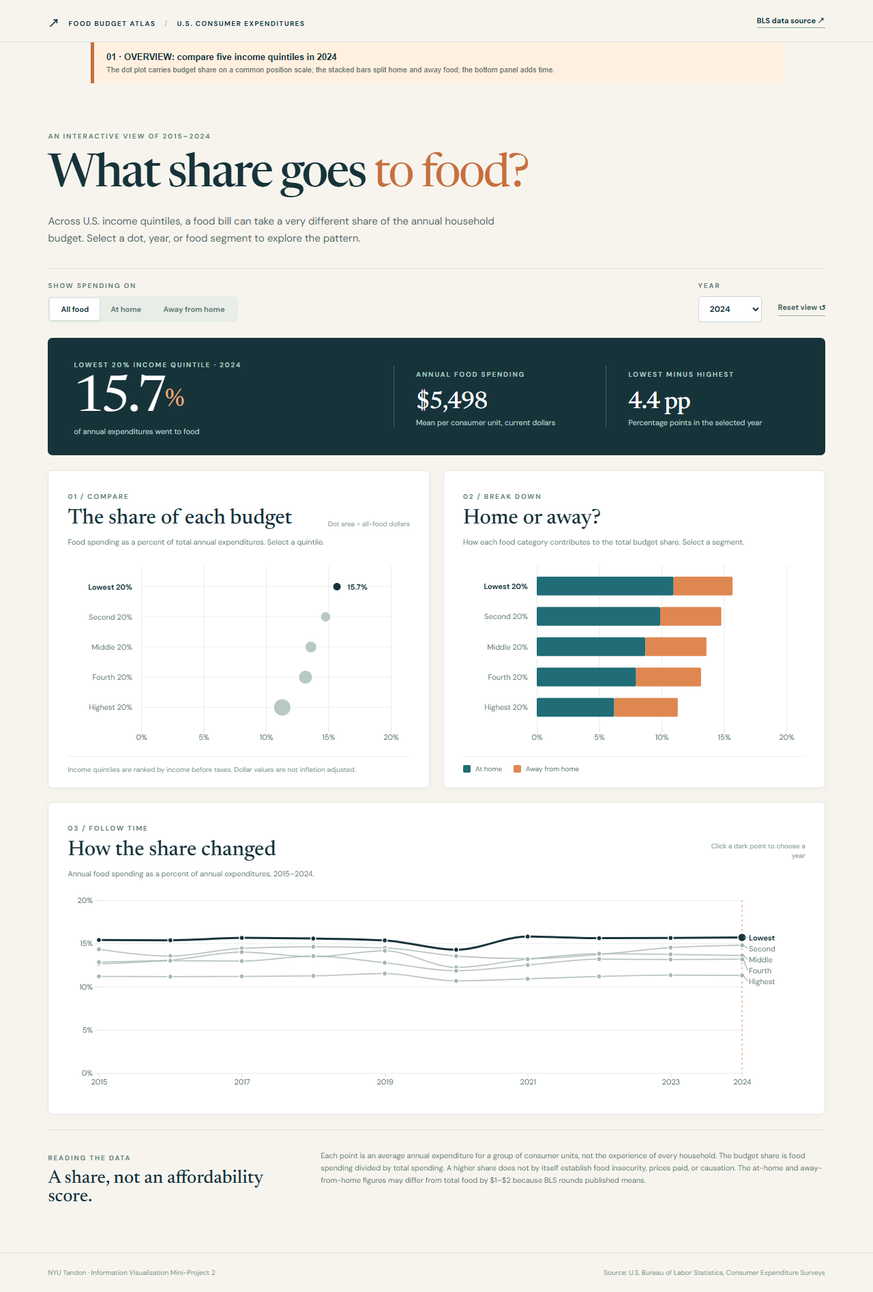
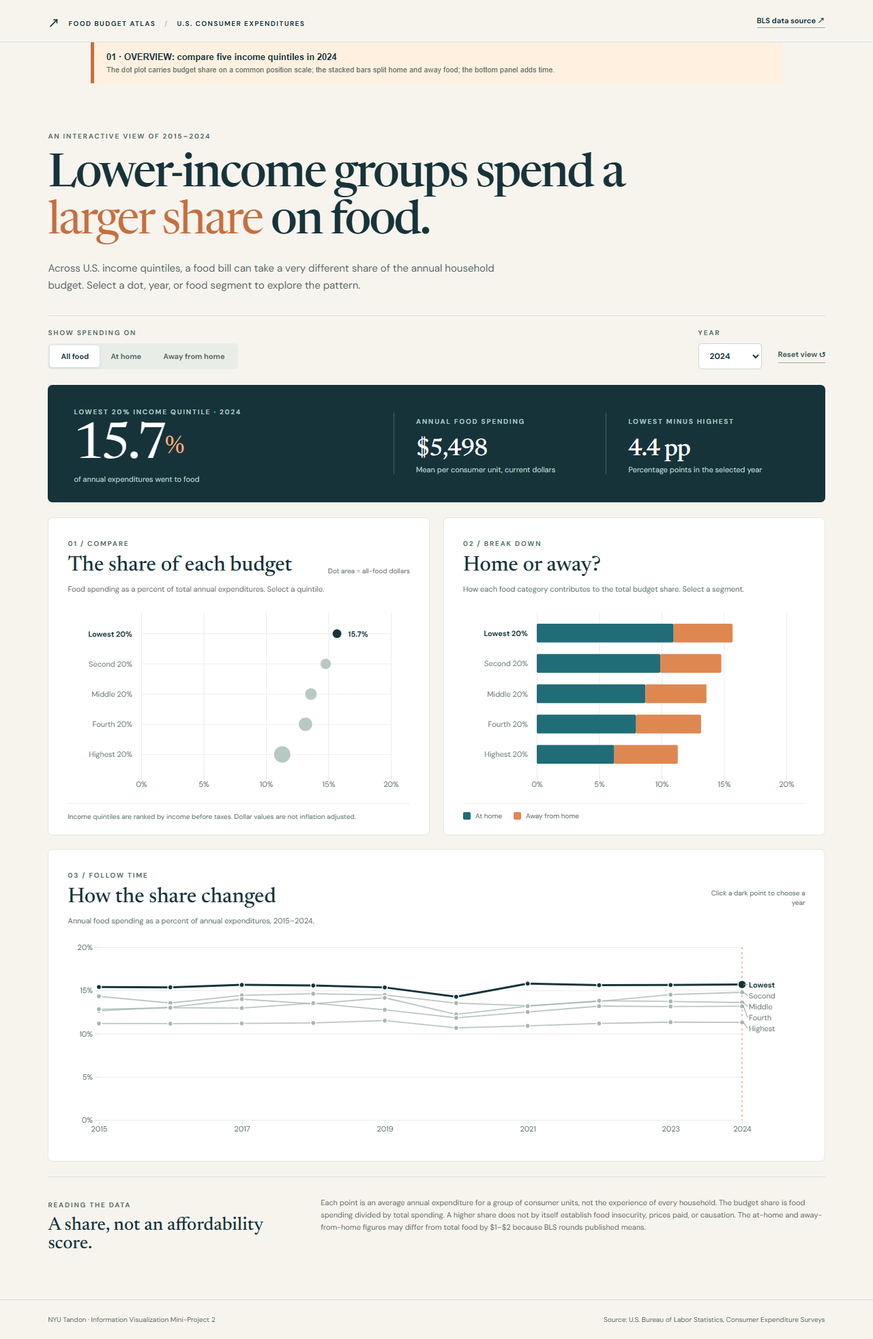
Audit dashboard against lecture and assignment rubric

diff --git a/src/styles.css b/src/styles.css
@@ -12,7 +12,7 @@ a { color: inherit; }
 .source-link { font-size: 11px; font-weight: 700; text-decoration: none; border-bottom: 1px solid #93a7a1; padding-bottom: 3px; white-space: nowrap; }
 main { padding: 0 5.5% 68px; }
 .hero { padding: 57px 0 31px; max-width: 860px; }
-.eyebrow, .view-number, .control-label, .summary-label { font-size: 10px; letter-spacing: .18em; font-weight: 700; color: #647f78; }
+.eyebrow, .view-number, .control-label, .summary-label { font-size: 10px; letter-spacing: .18em; font-weight: 700; color: #526d66; }
 h1, h2 { font-family: Newsreader, Georgia, serif; font-weight: 500; margin: 0; }
 h1 { font-size: clamp(46px, 5.3vw, 80px); line-height: 1.02; letter-spacing: -.04em; margin-top: 17px; }
 h1 em { font-weight: 400; color: #c66f3e; }
@@ -20,7 +20,7 @@ h1 em { font-weight: 400; color: #c66f3e; }
 .controls { display: flex; align-items: end; gap: 24px; padding: 18px 0 23px; border-top: 1px solid #d8dfda; }
 .control-group { display: flex; flex-direction: column; gap: 9px; }
 .segmented { display: flex; padding: 3px; background: #e9ede8; border-radius: 6px; }
-.segmented button { background: transparent; border: 0; border-radius: 4px; color: #637a75; font-size: 11px; font-weight: 700; padding: 9px 16px; }
+.segmented button { background: transparent; border: 0; border-radius: 4px; color: #526d66; font-size: 11px; font-weight: 700; padding: 9px 16px; }
 .segmented button.active { background: white; color: #17333a; box-shadow: 0 1px 4px #1b3b3526; }
 .segmented button:hover:not(.active) { color: #17333a; }
 .year-control { margin-left: auto; }
@@ -35,15 +35,15 @@ button:focus-visible, select:focus-visible, svg [tabindex]:focus-visible { outli
 .summary-aside { border-left: 1px solid #426168; padding-left: 32px; min-height: 80px; }
 .summary-aside strong { display: block; font-family: Newsreader, Georgia, serif; font-size: 35px; font-weight: 500; margin-top: 15px; letter-spacing: -.03em; }
 .dashboard-grid { display: grid; grid-template-columns: 1fr 1fr; gap: 20px; }
-.card { background: #fff; border: 1px solid #e2e7e1; border-radius: 7px; padding: 25px 28px 19px; min-width: 0; box-shadow: 0 2px 12px #193a2e08; }
+.card { background: #fff; border: 1px solid #e2e7e1; border-radius: 7px; padding: 25px 28px 19px; min-width: 0; }
 .card-header { display: flex; justify-content: space-between; gap: 12px; align-items: end; }
 .card h2 { font-size: 31px; margin-top: 8px; line-height: 1; }
-.card-description { font-size: 11px; line-height: 1.5; color: #687d76; margin: 11px 0 13px; }
-.chart-note { color: #8da19b; font-size: 10px; line-height: 1.4; text-align: right; max-width: 160px; }
+.card-description { font-size: 11px; line-height: 1.5; color: #596e67; margin: 11px 0 13px; }
+.chart-note { color: #536a64; font-size: 10px; line-height: 1.4; text-align: right; max-width: 160px; }
 .chart { width: 100%; min-height: 288px; }
 .card-trend { grid-column: 1 / -1; }
 .card-trend .chart { min-height: 306px; }
-.chart-footnote { border-top: 1px solid #edf0ec; padding-top: 11px; font-size: 10px; line-height: 1.5; color: #869890; }
+.chart-footnote { border-top: 1px solid #edf0ec; padding-top: 11px; font-size: 10px; line-height: 1.5; color: #596e67; }
 .row-label, .end-label { fill: #647a74; font-family: 'DM Sans', Arial, sans-serif; font-size: 11px; }
 .row-label.selected, .end-label.selected { fill: #17333a; font-weight: 700; }
 .row-guide { stroke: #edf0ec; stroke-width: 1; }
@@ -53,14 +53,14 @@ button:focus-visible, select:focus-visible, svg [tabindex]:focus-visible { outli
 .value-label { font-size: 11px; fill: #17333a; font-weight: 700; }
 .trend-line { fill: none; pointer-events: none; transition: stroke .18s, stroke-width .18s, opacity .18s; }
 .year-marker { stroke: #df8751; stroke-width: 1; stroke-dasharray: 3 4; }
-.legend { display: flex; gap: 17px; border-top: 1px solid #edf0ec; padding-top: 11px; font-size: 10px; color: #6a817b; }
+.legend { display: flex; gap: 17px; border-top: 1px solid #edf0ec; padding-top: 11px; font-size: 10px; color: #536a64; }
 .legend span { display: flex; align-items: center; gap: 7px; }
 .swatch { width: 11px; height: 11px; border-radius: 2px; display: inline-block; }
 .swatch.home { background: #216d77; }.swatch.away { background: #df8751; }
 .method { margin-top: 22px; border-top: 1px solid #d8dfda; padding: 28px 0 0; display: grid; grid-template-columns: 1fr 2fr; gap: 30px; }
 .method h2 { font-size: 27px; margin-top: 8px; }
-.method p { color: #657a73; line-height: 1.65; font-size: 11px; max-width: 760px; margin: 0; }
-footer { border-top: 1px solid #d8dfda; padding: 22px 5.5%; display: flex; justify-content: space-between; gap: 14px; font-size: 10px; color: #83958e; }
+.method p { color: #596e67; line-height: 1.65; font-size: 11px; max-width: 760px; margin: 0; }
+footer { border-top: 1px solid #d8dfda; padding: 22px 5.5%; display: flex; justify-content: space-between; gap: 14px; font-size: 10px; color: #596e67; }
 .tooltip { position: fixed; z-index: 20; background: #17333a; color: #fff; border-radius: 5px; padding: 12px 15px; display: none; box-shadow: 0 8px 24px #10282040; pointer-events: none; font-size: 11px; line-height: 1.6; min-width: 200px; }
 .tooltip.visible { display: flex; flex-direction: column; }
 .tooltip strong { color: #f0c29d; margin-bottom: 3px; }

diff --git a/index.html b/index.html
@@ -4,7 +4,7 @@
     <meta charset="UTF-8" />
     <meta name="viewport" content="width=device-width, initial-scale=1.0" />
     <meta name="theme-color" content="#f7f4ee" />
-    <title>What Share Goes to Food? | U.S. Household Food Budgets</title>
+    <title>Food Takes a Larger Share of Lower-Income Budgets | U.S. Food Budget Atlas</title>
     <link rel="preconnect" href="https://fonts.googleapis.com" />
     <link rel="preconnect" href="https://fonts.gstatic.com" crossorigin />
     <link href="https://fonts.googleapis.com/css2?family=DM+Sans:wght@400;500;600;700&family=Newsreader:opsz,wght@6..72,400;6..72,500;6..72,600&display=swap" rel="stylesheet" />
@@ -19,7 +19,7 @@
       <main>
         <section class="hero">
           <div class="eyebrow">AN INTERACTIVE VIEW OF 2015–2024</div>
-          <h1>What share goes <em>to food?</em></h1>
+          <h1>Lower-income groups spend a <em>larger share</em> on food.</h1>
           <p class="lede">Across U.S. income quintiles, a food bill can take a very different share of the annual household budget. Select a dot, year, or food segment to explore the pattern.</p>
         </section>
 
@@ -61,21 +61,21 @@
           <section class="card card-main" aria-labelledby="quintile-title">
             <div class="card-header"><div><span class="view-number">01 / COMPARE</span><h2 id="quintile-title">The share of each budget</h2></div><span class="chart-note">Dot area = all-food dollars</span></div>
             <p class="card-description">Food spending as a percent of total annual expenditures. Select a quintile.</p>
-            <div id="quintile-chart" class="chart" role="img" aria-label="Dot plot of the food budget share for five income quintiles"></div>
+            <div id="quintile-chart" class="chart" role="group" aria-label="Dot plot of the food budget share for five income quintiles"></div>
             <div class="chart-footnote">Income quintiles are ranked by income before taxes. Dollar values are not inflation adjusted.</div>
           </section>
 
           <section class="card card-composition" aria-labelledby="composition-title">
             <div class="card-header"><div><span class="view-number">02 / BREAK DOWN</span><h2 id="composition-title">Home or away?</h2></div></div>
             <p class="card-description">How each food category contributes to the total budget share. Select a segment.</p>
-            <div id="composition-chart" class="chart" role="img" aria-label="Stacked bar chart showing at-home and away-from-home food spending by income quintile"></div>
+            <div id="composition-chart" class="chart" role="group" aria-label="Stacked bar chart showing at-home and away-from-home food spending by income quintile"></div>
             <div class="legend"><span><i class="swatch home"></i> At home</span><span><i class="swatch away"></i> Away from home</span></div>
           </section>
 
           <section class="card card-trend" aria-labelledby="trend-title">
             <div class="card-header"><div><span class="view-number">03 / FOLLOW TIME</span><h2 id="trend-title">How the share changed</h2></div><span class="chart-note">Click a dark point to choose a year</span></div>
             <p class="card-description">Annual food spending as a percent of annual expenditures, 2015–2024.</p>
-            <div id="trend-chart" class="chart" role="img" aria-label="Line chart showing food budget share from 2015 to 2024 for five income quintiles"></div>
+            <div id="trend-chart" class="chart" role="group" aria-label="Line chart showing food budget share from 2015 to 2024 for five income quintiles"></div>
           </section>
         </div>
 

diff --git a/src/main.js b/src/main.js
@@ -81,7 +81,8 @@ function drawQuintiles() {
   const current = rows.filter(r => r.year === state.year);
   const x = d3.scaleLinear().domain([0, 20]).range([0, plotWidth]);
   const y = d3.scaleBand().domain(quintiles).range([0, plotHeight]).padding(.38);
-  const size = d3.scaleSqrt().domain(d3.extent(rows, r => r.food_total_usd)).range([5, 13]);
+  // A zero-based square-root radius keeps circle area proportional to dollars.
+  const size = d3.scaleSqrt().domain([0, d3.max(rows, r => r.food_total_usd)]).range([0, 13]);
 
   plot.append('g').attr('class', 'grid').call(d3.axisBottom(x).tickValues([0, 5, 10, 15, 20]).tickSize(plotHeight).tickFormat(''));
   plot.select('.grid').call(axisStyle).attr('opacity', .6);
@@ -152,7 +153,8 @@ function drawTrend() {
   plot.append('g').call(d3.axisLeft(y).tickValues([0, 5, 10, 15, 20]).tickFormat(d => `${d}%`)).call(axisStyle);
   plot.append('line').attr('class', 'year-marker').attr('x1', x(state.year)).attr('x2', x(state.year)).attr('y1', 0).attr('y2', plotHeight);
 
-  const line = d3.line().x(r => x(r.year)).y(r => y(share(r))).curve(d3.curveMonotoneX);
+  // Straight segments connect observed annual means without inventing a smooth trajectory.
+  const line = d3.line().x(r => x(r.year)).y(r => y(share(r)));
   const groups = quintiles.map(quintile => ({ quintile, data: rows.filter(r => r.income_quintile === quintile).sort((a,b) => a.year-b.year) }));
   plot.selectAll('.trend-line').data(groups).join('path').attr('class', 'trend-line')
     .attr('d', g => line(g.data)).attr('stroke', g => g.quintile === state.quintile ? colors.ink : '#a8b7b5')

diff --git a/scripts/build_reflection_pdf.py b/scripts/build_reflection_pdf.py
@@ -9,7 +9,7 @@ from reportlab.lib.styles import ParagraphStyle
 from reportlab.lib.utils import simpleSplit
 from reportlab.pdfbase import pdfmetrics
 from reportlab.pdfbase.ttfonts import TTFont
-from reportlab.platypus import SimpleDocTemplate, Paragraph, Spacer
+from reportlab.platypus import SimpleDocTemplate, Paragraph, Spacer, Table, TableStyle
 
 ROOT = Path(__file__).resolve().parents[1]
 OUTPUT = ROOT / "output" / "pdf" / "reflection.pdf"
@@ -24,7 +24,8 @@ muted = colors.HexColor("#5f7772")
 accent = colors.HexColor("#c66f3e")
 
 source = (ROOT / "docs" / "reflection.md").read_text(encoding="utf-8")
-paragraphs = [part.strip() for part in source.split("\n\n") if part.strip()]
+prose, table_markdown = source.split("## Channel justification table", 1)
+paragraphs = [part.strip() for part in prose.split("\n\n") if part.strip()]
 title = paragraphs[0].removeprefix("# ")
 body = [part for part in paragraphs[2:]]  # skip the draft-status line
 
@@ -35,14 +36,36 @@ def markup(text: str) -> str:
 
 styles = {
     "title": ParagraphStyle("title", fontName="Georgia", fontSize=20, leading=24, textColor=navy, spaceAfter=16),
-    "body": ParagraphStyle("body", fontName="Georgia", fontSize=9.6, leading=14.6, textColor=navy, spaceAfter=12, alignment=TA_LEFT),
-    "note": ParagraphStyle("note", fontName="Georgia", fontSize=9, leading=13.5, textColor=muted, spaceBefore=5),
+    "body": ParagraphStyle("body", fontName="Georgia", fontSize=9.2, leading=13.5, textColor=navy, spaceAfter=10, alignment=TA_LEFT),
+    "note": ParagraphStyle("note", fontName="Georgia", fontSize=8.6, leading=12.5, textColor=muted, spaceBefore=3, spaceAfter=10),
+    "table_heading": ParagraphStyle("table_heading", fontName="Georgia-Bold", fontSize=7.3, leading=9, textColor=colors.white),
+    "table_cell": ParagraphStyle("table_cell", fontName="Georgia", fontSize=7.1, leading=9, textColor=navy),
+    "section": ParagraphStyle("section", fontName="Georgia-Bold", fontSize=9.2, leading=11, textColor=navy, spaceBefore=3, spaceAfter=6),
 }
 
 story = [Paragraph(title, styles["title"])]
 for i, paragraph in enumerate(body):
     style = styles["note"] if paragraph.startswith("**Interpretive limit:") else styles["body"]
     story.append(Paragraph(markup(paragraph), style))
+
+story.append(Paragraph("Channel justification table - current implementation", styles["section"]))
+lines = [line.strip() for line in table_markdown.splitlines() if line.strip().startswith("|")]
+cells = [[cell.strip() for cell in line.strip("|").split("|")] for line in lines]
+cells = [cells[0]] + cells[2:]  # skip Markdown separator row
+data = [[Paragraph(markup(cell), styles["table_heading"] if row == 0 else styles["table_cell"])
+         for cell in values] for row, values in enumerate(cells)]
+table = Table(data, colWidths=[105, 77, 144, 192], repeatRows=1, hAlign="LEFT")
+table.setStyle(TableStyle([
+    ("BACKGROUND", (0, 0), (-1, 0), navy),
+    ("ROWBACKGROUNDS", (0, 1), (-1, -1), [colors.white, colors.HexColor("#f7f4ee")]),
+    ("VALIGN", (0, 0), (-1, -1), "TOP"),
+    ("LEFTPADDING", (0, 0), (-1, -1), 5),
+    ("RIGHTPADDING", (0, 0), (-1, -1), 5),
+    ("TOPPADDING", (0, 0), (-1, -1), 4),
+    ("BOTTOMPADDING", (0, 0), (-1, -1), 4),
+    ("LINEBELOW", (0, 0), (-1, 0), 0.4, navy),
+]))
+story.append(table)
 
 def decorate(canvas, doc):
     canvas.saveState()

diff --git a/scripts/fetch_data.py b/scripts/fetch_data.py
@@ -85,7 +85,25 @@ def main() -> None:
         writer = csv.DictWriter(output, fieldnames=rows[0].keys())
         writer.writeheader()
         writer.writerows(rows)
-    print(f"Wrote {len(rows)} complete rows from {len(requested)} official BLS series")
+
+    # This tidy companion makes the nominal food-category dimension explicit.
+    long_rows = []
+    for row in rows:
+        for category, column in (("At home", "food_at_home_usd"), ("Away from home", "food_away_from_home_usd")):
+            long_rows.append({
+                "year": row["year"],
+                "income_quintile": row["income_quintile"],
+                "quintile_rank": row["quintile_rank"],
+                "food_category": category,
+                "category_expenditure_usd": row[column],
+                "total_expenditures_usd": row["total_expenditures_usd"],
+                "category_share_percent": round(100 * row[column] / row["total_expenditures_usd"], 3),
+            })
+    with (data_dir / "food_spending_long.csv").open("w", newline="", encoding="utf-8") as output:
+        writer = csv.DictWriter(output, fieldnames=long_rows[0].keys())
+        writer.writeheader()
+        writer.writerows(long_rows)
+    print(f"Wrote {len(rows)} wide and {len(long_rows)} long rows from {len(requested)} official BLS series")
     print("2024 food share by quintile:")
     for row in rows:
         if row["year"] == 2024:

diff --git a/docs/reflection.md b/docs/reflection.md
@@ -4,10 +4,20 @@
 
 The central question in Food Budget Atlas is not who spends the most dollars on food; it is what share of annual expenditures food represents in each income quintile. I therefore placed the share on a common horizontal scale in the dot plot and stacked bars, and on a shared vertical scale in the time series. This follows the **Effectiveness Principle** and the **Cleveland and McGill perceptual ranking** discussed in Week 4 (slides 18 and 24): people compare positions more accurately than areas or angles. Circle area conveys the secondary dollar amount, while exact values remain available in the tooltip. The 0–20% scales stay fixed when the food category changes, which makes cross-filtered views comparable but gives small changes less visual resolution.
 
-The **Expressiveness Principle** (Week 4, slide 17) also shaped the encodings. Income quintiles are ordinal, so I keep them in lowest-to-highest order rather than assigning arbitrary categorical hues. Year runs left to right on the line chart. At-home and away-from-home food are nominal categories, so two hues identify them in the stacked bars; color never stands for a numeric scale. The distinction remains legible in grayscale through segment position and direct labels. In the time chart, the selected quintile is darker and thicker than the four context lines. This uses the Week 3 focus-and-context color guidance (slide 47) without demanding a five-color legend.
+The **Expressiveness Principle** (Week 4, slide 17) also shaped the encodings. Income quintiles are ordinal, so I keep them in lowest-to-highest order rather than assigning arbitrary categorical hues. Year runs left to right on the line chart. At-home and away-from-home food are nominal categories, so two hues identify them in the stacked bars; color never stands for a numeric scale. The distinction remains legible in grayscale through segment order, lightness, and a two-item legend. In the time chart, the selected quintile is darker and thicker than the four context lines. This uses the Week 3 focus-and-context color guidance (slide 47) without demanding a five-color legend.
 
 The layout applies **Gestalt proximity, similarity, and enclosure** from Week 4 (slides 39–42). The two views that compare the same five quintiles in one year sit beside one another inside matching cards. The time view spans the row below, because its ten-year axis needs width. Repeated type, spacing, and axes make the cards feel related, while the dark summary makes the active selection clear. I considered three equal columns, but that would squeeze the trend and weaken year comparisons. The chosen hierarchy gives the main budget-share question the first glance. Thin guides and restrained borders reflect Tufte's **data-ink ratio** discussion (Week 4, slide 37): marks and values, rather than decoration, carry the story.
 
 Finally, the three views share a single selection. Clicking a dot selects a quintile; clicking a stacked segment selects a quintile and food category; clicking a dark time-series point selects a year. Every action updates the other views and the summary, so users can move from overview to a focused comparison and details on demand, consistent with the interaction guidance in Week 1 (slide 13) and Week 2. A tradeoff is that only the focused line's points are clickable: the five lines sometimes lie too close together for reliable independent targets. Quintile selection remains available in the other two views. This choice makes the interaction predictable, but real peer testing is needed to see whether users discover it naturally.
 
 **Interpretive limit:** These are BLS group means in current dollars. The chart describes expenditure patterns; it does not show every household's experience or explain why a pattern changed.
+
+## Channel justification table — current implementation
+
+| Data dimension | Data type | Mark and channel | Reason |
+| --- | --- | --- | --- |
+| Food share of expenditures | Quantitative | Dot and bar horizontal position; line vertical position | The primary measure uses the most accurate channel and a common scale. |
+| Income quintile | Ordinal | Ordered dot/bar rows; direct line labels | The rank is preserved without implying unrelated color categories. |
+| Calendar year | Temporal ordinal | Line horizontal position | Left-to-right position conveys chronological order. |
+| Food at home / away | Nominal | Stacked-bar hue and left/right position | Two consistent hues identify categories; position remains readable in grayscale. |
+| Annual all-food dollars | Quantitative | Dot area | A secondary magnitude; zero-based square-root radius makes area proportional to dollars. |

diff --git a/docs/sources.md b/docs/sources.md
@@ -6,13 +6,17 @@
 - Access method: [BLS Public Data API v2](https://www.bls.gov/developers/api_signature_v2.htm), `POST https://api.bls.gov/publicAPI/v2/timeseries/data/`, accessed 2026-10-08.
 - Series naming and demographic codes: BLS [CE LABSTAT data guide](https://www.bls.gov/cex/labstat/ce-labstat-getting-started-guide.htm) and the `cx.series`, `cx.item`, and `cx.characteristics` metadata files in the [BLS time-series directory](https://download.bls.gov/pub/time.series/cx/). The API series are `CXU{ITEM}LB01{QUINTILE}M`, where `ITEM` is `TOTALEXP`, `FOODTOTL`, `FOODHOME`, or `FOODAWAY`, and `QUINTILE` is `02` through `06`. This yields 20 series.
 - Cross-check and terminology: BLS [CE demographic tables](https://www.bls.gov/cex/tables/calendar-year/mean-item-share-average-standard-error.htm), [tables guide](https://www.bls.gov/cex/tables-getting-started-guide.htm), and [glossary](https://www.bls.gov/cex/csxgloss.htm).
-- Raw API response: [`data/bls_api_2015_2024.json`](../data/bls_api_2015_2024.json). Processed extract: [`data/food_spending.csv`](../data/food_spending.csv). Reproduction script: [`scripts/fetch_data.py`](../scripts/fetch_data.py).
+- Raw API response: [`data/bls_api_2015_2024.json`](../data/bls_api_2015_2024.json). Processed wide app extract: [`data/food_spending.csv`](../data/food_spending.csv). Tidy category extract: [`data/food_spending_long.csv`](../data/food_spending_long.csv). Reproduction script: [`scripts/fetch_data.py`](../scripts/fetch_data.py).
 
 ## Transformation and quality checks
 
-There are 10 years (2015–2024) × five quintiles = 50 rows. `scripts/fetch_data.py` checks that all 20 series and all 50 year–quintile combinations are present, every record contains all four measures, total expenditures exceed food spending, and food at home plus food away from home differs from published food total by no more than $2 due to rounding. The year is a calendar year; the underlying measure is mean annual spending per consumer unit. `food_share_percent = 100 × food_total_usd / total_expenditures_usd`. `away_share_of_food_percent` is included in the CSV for checking and future analysis but not used as a dashboard axis. The plotted home and away shares divide by **total expenditures**, so they approximately add to the total food share.
+There are 10 years (2015–2024) × five quintiles = 50 wide rows and 100 tidy food-category rows. `scripts/fetch_data.py` checks that all 20 series and all 50 year–quintile combinations are present, every record contains all four measures, total expenditures exceed food spending, and food at home plus food away from home differs from published food total by no more than $2 due to rounding. The year is a calendar year; the underlying measure is mean annual spending per consumer unit. `food_share_percent = 100 × food_total_usd / total_expenditures_usd`. `away_share_of_food_percent` is included in the wide CSV for checking and future analysis but not used as a dashboard axis. The plotted home and away shares divide by **total expenditures**, so they approximately add to the total food share. The tidy file makes the nominal food category explicit; the dashboard reads the equivalent wide file for simpler rendering.
 
 The lowest-to-highest quintile ordering uses income **before taxes**. Published mean expenditures are in **current dollars**, with no inflation adjustment. The API data are grouped estimates; the dashboard does not show microdata, confidence intervals, prices, household composition, or causal effects. The 2024 all-food budget shares calculated from the frozen extract are 15.7%, 14.8%, 13.6%, 13.2%, and 11.3% from lowest to highest quintile.
+
+## Visual checks
+
+On 2026-10-10, the dashboard was rendered in grayscale at desktop width. Home and away food segments remained distinguishable by lightness and consistent left/right order; the legend names both categories. Representative WCAG contrast calculations were 4.59:1 for the lightest row label on white, 4.75:1 for inactive control text on its pale background, 5.45:1 for card description text on white, and 8.38:1 for small summary text on navy. The orange hero phrase is large text and measured 3.33:1 against the page background. Severe deuteranomaly and protanomaly views were also simulated locally using [Colorspacious's documented CVD conversion](https://colorspacious.readthedocs.io/en/v1.1.2/tutorial.html#simulating-colorblindness); the two food-category fills remained visibly distinct in both. Simulations approximate perception rather than proving universal accessibility. The selected trend line also uses stronger stroke width and direct labeling, not hue alone.
 
 ## Lecture sources
 

diff --git a/docs/proposal.md b/docs/proposal.md
@@ -4,7 +4,7 @@
 
 ## Dataset and question
 
-The public dataset is the U.S. Bureau of Labor Statistics (BLS) Consumer Expenditure Surveys (CE), accessed through the [BLS Public Data API](https://www.bls.gov/developers/api_signature_v2.htm). Each of the 50 rows represents an annual average for one income-before-taxes quintile in one year, 2015–2024. The series include total expenditures, all food, food at home, and food away from home, in current U.S. dollars per consumer unit. Derived fields are all-food, home, and away shares of total expenditures. There are no missing year–quintile combinations or spending measures in the frozen extract. See [sources](sources.md) for series IDs and transformations.
+The public dataset is the U.S. Bureau of Labor Statistics (BLS) Consumer Expenditure Surveys (CE), accessed through the [BLS Public Data API](https://www.bls.gov/developers/api_signature_v2.htm). Each of the 50 wide rows represents an annual average for one income-before-taxes quintile in one year, 2015–2024; a 100-row tidy companion explicitly records the nominal `food_category` (at home or away) for each year and quintile. The series include total expenditures, all food, food at home, and food away from home, in current U.S. dollars per consumer unit. Derived fields are all-food, home, and away shares of total expenditures. There are no missing year–quintile combinations or spending measures in the frozen extract. See [sources](sources.md) for series IDs and transformations.
 
 The topic connects food to personal finance without relying on a vague claim about affordability. The dashboard asks a precise descriptive question: **How much of each group's annual expenditure budget goes to food, and how is that share split between home and away?** A higher food share is not itself a measure of food insecurity. The data are group means, not individual spending histories.
 
@@ -51,4 +51,4 @@ Every view changes the shared selection and therefore updates the other two. Too
 
 ## Gestalt and pre-submission review
 
-The cards use enclosure; equal padding, typography, and axes use similarity; the two year-specific quintile views sit close together, while the full-width time view forms a second group. A large dark summary establishes the reading order. The Week 4 slide-46 checklist is addressed: data types are identified, primary quantity uses position, there are two legend items, marks are directly labeled, and chart decoration is restrained. The palette uses teal and orange plus direct text and luminance differences, following the Week 3 color guidance. The student should repeat a grayscale review and get feedback from a person unfamiliar with the dataset before final submission.
+The cards use enclosure; equal padding, typography, and axes use similarity; the two year-specific quintile views sit close together, while the full-width time view forms a second group. A large dark summary establishes the reading order. The Week 4 slide-46 checklist is addressed: data types are identified, primary quantity uses position, there are two legend items, marks are directly labeled, the page headline states the observed pattern, and chart decoration is restrained. The palette uses teal and orange plus direct text and luminance differences, following the Week 3 color guidance. Grayscale and severe red-green color-vision simulations were visually checked on 2026-10-10; home and away remained distinguishable. The smallest text/background pairs checked at 4.59:1 or higher, and the large orange headline checked at 3.33:1. The student should still test the dashboard with unfamiliar peers before final submission.

diff --git a/README.md b/README.md
@@ -19,7 +19,7 @@ The source CSV is committed, so the dashboard does **not** need a BLS API reques
 
 ## Data and interpretation
 
-The [BLS Consumer Expenditure Surveys](https://www.bls.gov/cex/) supply annual average expenditures per **consumer unit**, grouped by quintiles of **income before taxes**. The dataset contains 50 year–quintile records (2015–2024 × five quintiles) and four original spending measures: total expenditures, all food, food at home, and food away from home. `scripts/fetch_data.py` retrieves 20 BLS series from the [BLS Public Data API](https://www.bls.gov/developers/api_signature_v2.htm), validates completeness and published rounding, and writes both the API response and `data/food_spending.csv`. To refresh the frozen data, run `python scripts/fetch_data.py` (Python 3 standard library only).
+The [BLS Consumer Expenditure Surveys](https://www.bls.gov/cex/) supply annual average expenditures per **consumer unit**, grouped by quintiles of **income before taxes**. The app uses 50 year–quintile records (2015–2024 × five quintiles) with four original spending measures: total expenditures, all food, food at home, and food away from home. A companion 100-row tidy extract makes `food_category` an explicit nominal variable. `scripts/fetch_data.py` retrieves 20 BLS series from the [BLS Public Data API](https://www.bls.gov/developers/api_signature_v2.htm), validates completeness and published rounding, and writes the raw response and both processed CSVs. To refresh the frozen data, run `python scripts/fetch_data.py` (Python 3 standard library only).
 
 The main measure is `food spending / total expenditures × 100`. Home and away shares use the same denominator. Means are group averages, so the chart does not describe every household. Dollar figures are current dollars and are **not inflation adjusted**. The views describe spending patterns and cannot determine food insecurity, causality, or why shares changed. BLS-rounded components can differ from the BLS food total by up to $2.
 
